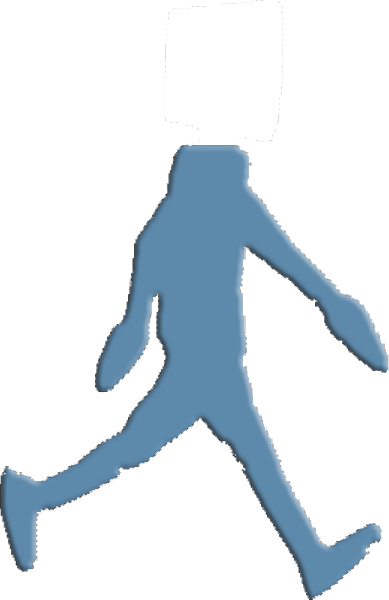
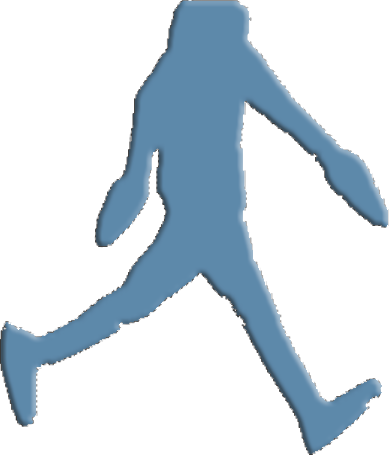
Fix: mark img css width

diff --git a/js-ar/ntf.html b/js-ar/ntf.html
@@ -78,6 +78,14 @@
         width: 100vw;
         height: 100vh;
       }
+
+      .mark .head img {
+        width: 389px;
+      }
+
+      .mark .body img {
+        width: 120px;
+      }
     </style>
 
     <script src="https://jhouxu.github.io/demo/js-ar/utils/aframe-master.min.js"></script>
